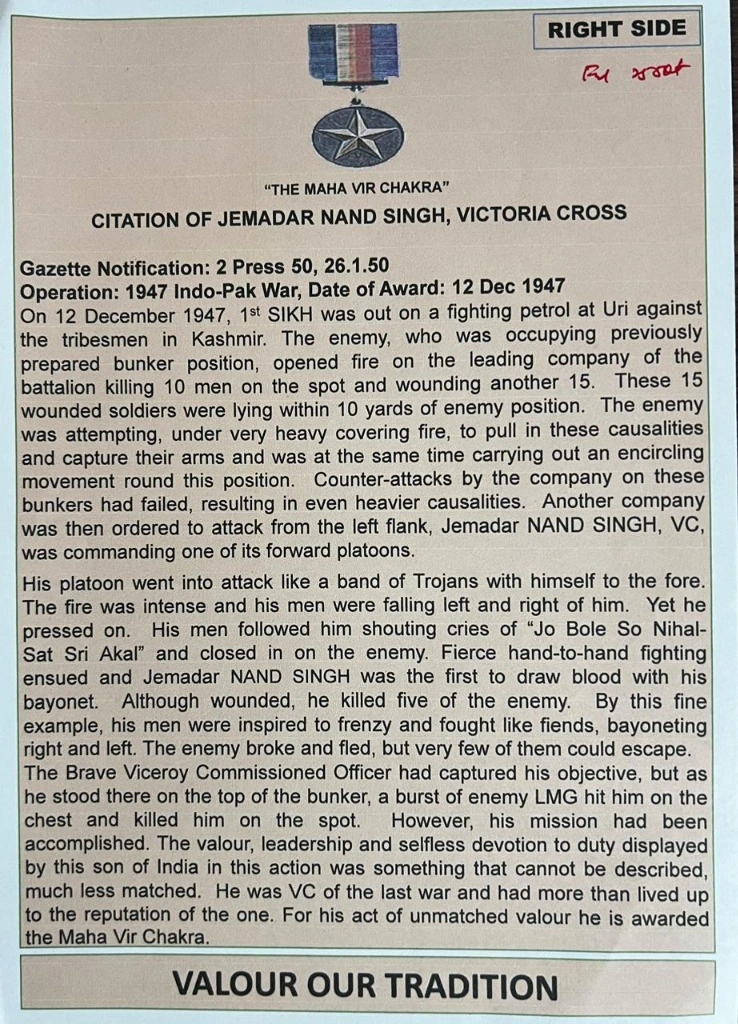
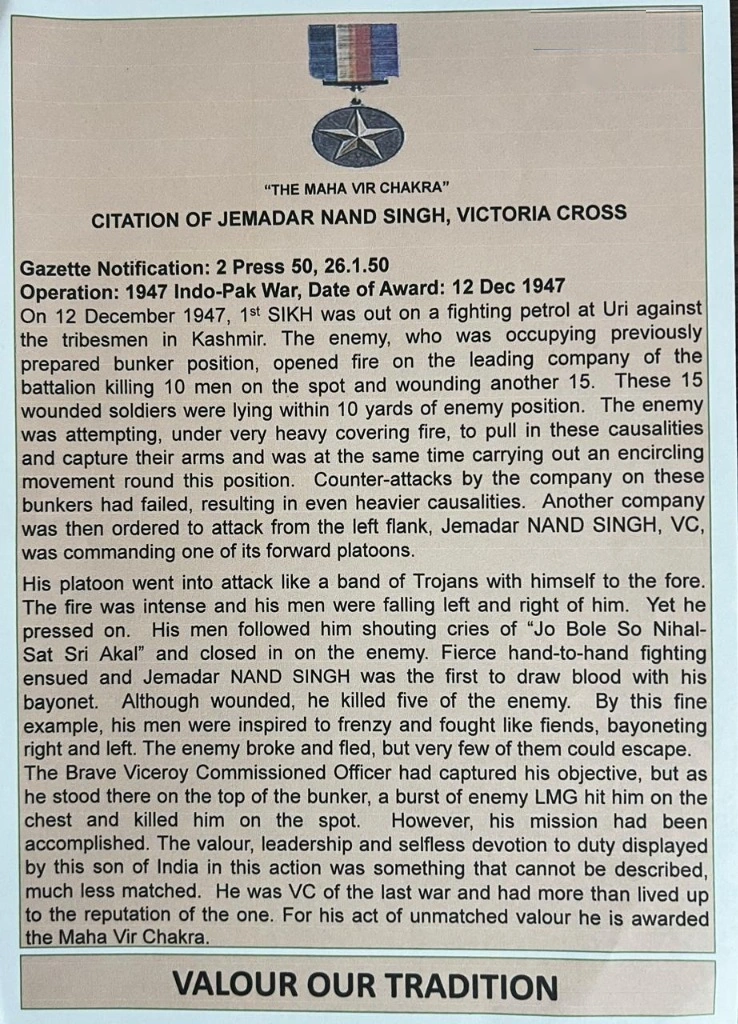
Clean top-right corner marks from VC and MVC citation images for art201

Changed region(s): [[0.7168, 0.0, 0.9661, 0.0938]]

diff --git a/art201_hi.html b/art201_hi.html
@@ -65,11 +65,11 @@
 <div style="display: flex; flex-direction: row; justify-content: center; align-items: stretch; gap: 24px; width: 100%; flex-wrap: wrap;">
 <div style="flex: 1 1 340px; max-width: 520px; display: flex; flex-direction: column; align-items: center;">
 <h4 style="color: #f8fafc; margin-bottom: 12px; font-size: 1.05rem; font-weight: 600; text-align: center;">विक्टोरिया क्रॉस (VC) प्रशस्ति पत्र</h4>
-<img alt="Citation for Naik Nand Singh, VC" onmouseout="this.style.transform='scale(1)'" onmouseover="this.style.transform='scale(1.02)'" src="assets/art/art_201_vc_citation.webp" style="width: 100%; height: auto; max-height: 700px; object-fit: contain; border-radius: 12px; border: 2px solid var(--glass-border); box-shadow: 0 4px 16px rgba(0,0,0,0.6); cursor: pointer; transition: transform 0.3s ease;"/>
+<img alt="Citation for Naik Nand Singh, VC" onmouseout="this.style.transform='scale(1)'" onmouseover="this.style.transform='scale(1.02)'" src="assets/art/art_201_vc_citation.webp?v=2" style="width: 100%; height: auto; max-height: 700px; object-fit: contain; border-radius: 12px; border: 2px solid var(--glass-border); box-shadow: 0 4px 16px rgba(0,0,0,0.6); cursor: pointer; transition: transform 0.3s ease;"/>
 </div>
 <div style="flex: 1 1 340px; max-width: 520px; display: flex; flex-direction: column; align-items: center;">
 <h4 style="color: #f8fafc; margin-bottom: 12px; font-size: 1.05rem; font-weight: 600; text-align: center;">महावीर चक्र (MVC) प्रशस्ति पत्र</h4>
-<img alt="Citation for Jemadar Nand Singh, MVC" onmouseout="this.style.transform='scale(1)'" onmouseover="this.style.transform='scale(1.02)'" src="assets/art/art_201_mvc_citation.webp" style="width: 100%; height: auto; max-height: 700px; object-fit: contain; border-radius: 12px; border: 2px solid var(--glass-border); box-shadow: 0 4px 16px rgba(0,0,0,0.6); cursor: pointer; transition: transform 0.3s ease;"/>
+<img alt="Citation for Jemadar Nand Singh, MVC" onmouseout="this.style.transform='scale(1)'" onmouseover="this.style.transform='scale(1.02)'" src="assets/art/art_201_mvc_citation.webp?v=2" style="width: 100%; height: auto; max-height: 700px; object-fit: contain; border-radius: 12px; border: 2px solid var(--glass-border); box-shadow: 0 4px 16px rgba(0,0,0,0.6); cursor: pointer; transition: transform 0.3s ease;"/>
 </div>
 </div>
 <p style="color: #94a3b8; font-size: 0.85rem; margin-top: 15px; font-style: italic;">* ऊपर दिए गए किसी भी चित्र को फुलस्क्रीन में देखने के लिए डबल-क्लिक करें</p>

diff --git a/art201_pa.html b/art201_pa.html
@@ -65,11 +65,11 @@
 <div style="display: flex; flex-direction: row; justify-content: center; align-items: stretch; gap: 24px; width: 100%; flex-wrap: wrap;">
 <div style="flex: 1 1 340px; max-width: 520px; display: flex; flex-direction: column; align-items: center;">
 <h4 style="color: #f8fafc; margin-bottom: 12px; font-size: 1.05rem; font-weight: 600; text-align: center;">ਵਿਕਟੋਰੀਆ ਕਰਾਸ (VC) ਪ੍ਰਸ਼ੰਸਾ ਪੱਤਰ</h4>
-<img alt="Citation for Naik Nand Singh, VC" onmouseout="this.style.transform='scale(1)'" onmouseover="this.style.transform='scale(1.02)'" src="assets/art/art_201_vc_citation.webp" style="width: 100%; height: auto; max-height: 700px; object-fit: contain; border-radius: 12px; border: 2px solid var(--glass-border); box-shadow: 0 4px 16px rgba(0,0,0,0.6); cursor: pointer; transition: transform 0.3s ease;"/>
+<img alt="Citation for Naik Nand Singh, VC" onmouseout="this.style.transform='scale(1)'" onmouseover="this.style.transform='scale(1.02)'" src="assets/art/art_201_vc_citation.webp?v=2" style="width: 100%; height: auto; max-height: 700px; object-fit: contain; border-radius: 12px; border: 2px solid var(--glass-border); box-shadow: 0 4px 16px rgba(0,0,0,0.6); cursor: pointer; transition: transform 0.3s ease;"/>
 </div>
 <div style="flex: 1 1 340px; max-width: 520px; display: flex; flex-direction: column; align-items: center;">
 <h4 style="color: #f8fafc; margin-bottom: 12px; font-size: 1.05rem; font-weight: 600; text-align: center;">ਮਹਾਵੀਰ ਚੱਕਰ (MVC) ਪ੍ਰਸ਼ੰਸਾ ਪੱਤਰ</h4>
-<img alt="Citation for Jemadar Nand Singh, MVC" onmouseout="this.style.transform='scale(1)'" onmouseover="this.style.transform='scale(1.02)'" src="assets/art/art_201_mvc_citation.webp" style="width: 100%; height: auto; max-height: 700px; object-fit: contain; border-radius: 12px; border: 2px solid var(--glass-border); box-shadow: 0 4px 16px rgba(0,0,0,0.6); cursor: pointer; transition: transform 0.3s ease;"/>
+<img alt="Citation for Jemadar Nand Singh, MVC" onmouseout="this.style.transform='scale(1)'" onmouseover="this.style.transform='scale(1.02)'" src="assets/art/art_201_mvc_citation.webp?v=2" style="width: 100%; height: auto; max-height: 700px; object-fit: contain; border-radius: 12px; border: 2px solid var(--glass-border); box-shadow: 0 4px 16px rgba(0,0,0,0.6); cursor: pointer; transition: transform 0.3s ease;"/>
 </div>
 </div>
 <p style="color: #94a3b8; font-size: 0.85rem; margin-top: 15px; font-style: italic;">* ਉੱਪਰ ਦਿੱਤੀ ਕਿਸੇ ਵੀ ਤਸਵੀਰ ਨੂੰ ਫੁੱਲਸਕ੍ਰੀਨ ਵਿੱਚ ਦੇਖਣ ਲਈ ਡਬਲ-ਕਲਿੱਕ ਕਰੋ</p>

diff --git a/art201.html b/art201.html
@@ -70,11 +70,11 @@
 <div style="display: flex; flex-direction: row; justify-content: center; align-items: stretch; gap: 24px; width: 100%; flex-wrap: wrap;">
 <div style="flex: 1 1 340px; max-width: 520px; display: flex; flex-direction: column; align-items: center;">
 <h4 style="color: #f8fafc; margin-bottom: 12px; font-size: 1.05rem; font-weight: 600; text-align: center;">Victoria Cross (VC) Citation</h4>
-<img alt="Victoria Cross Citation for Naik Nand Singh, VC" onmouseout="this.style.transform='scale(1)'" onmouseover="this.style.transform='scale(1.02)'" src="assets/art/art_201_vc_citation.webp" style="width: 100%; height: auto; max-height: 700px; object-fit: contain; border-radius: 12px; border: 2px solid var(--glass-border); box-shadow: 0 4px 16px rgba(0,0,0,0.6); cursor: pointer; transition: transform 0.3s ease;"/>
+<img alt="Victoria Cross Citation for Naik Nand Singh, VC" onmouseout="this.style.transform='scale(1)'" onmouseover="this.style.transform='scale(1.02)'" src="assets/art/art_201_vc_citation.webp?v=2" style="width: 100%; height: auto; max-height: 700px; object-fit: contain; border-radius: 12px; border: 2px solid var(--glass-border); box-shadow: 0 4px 16px rgba(0,0,0,0.6); cursor: pointer; transition: transform 0.3s ease;"/>
 </div>
 <div style="flex: 1 1 340px; max-width: 520px; display: flex; flex-direction: column; align-items: center;">
 <h4 style="color: #f8fafc; margin-bottom: 12px; font-size: 1.05rem; font-weight: 600; text-align: center;">Maha Vir Chakra (MVC) Citation</h4>
-<img alt="Maha Vir Chakra Citation for Jemadar Nand Singh, MVC" onmouseout="this.style.transform='scale(1)'" onmouseover="this.style.transform='scale(1.02)'" src="assets/art/art_201_mvc_citation.webp" style="width: 100%; height: auto; max-height: 700px; object-fit: contain; border-radius: 12px; border: 2px solid var(--glass-border); box-shadow: 0 4px 16px rgba(0,0,0,0.6); cursor: pointer; transition: transform 0.3s ease;"/>
+<img alt="Maha Vir Chakra Citation for Jemadar Nand Singh, MVC" onmouseout="this.style.transform='scale(1)'" onmouseover="this.style.transform='scale(1.02)'" src="assets/art/art_201_mvc_citation.webp?v=2" style="width: 100%; height: auto; max-height: 700px; object-fit: contain; border-radius: 12px; border: 2px solid var(--glass-border); box-shadow: 0 4px 16px rgba(0,0,0,0.6); cursor: pointer; transition: transform 0.3s ease;"/>
 </div>
 </div>
 <p style="color: #94a3b8; font-size: 0.85rem; margin-top: 15px; font-style: italic;">* Double-click any image above to view in fullscreen</p>
